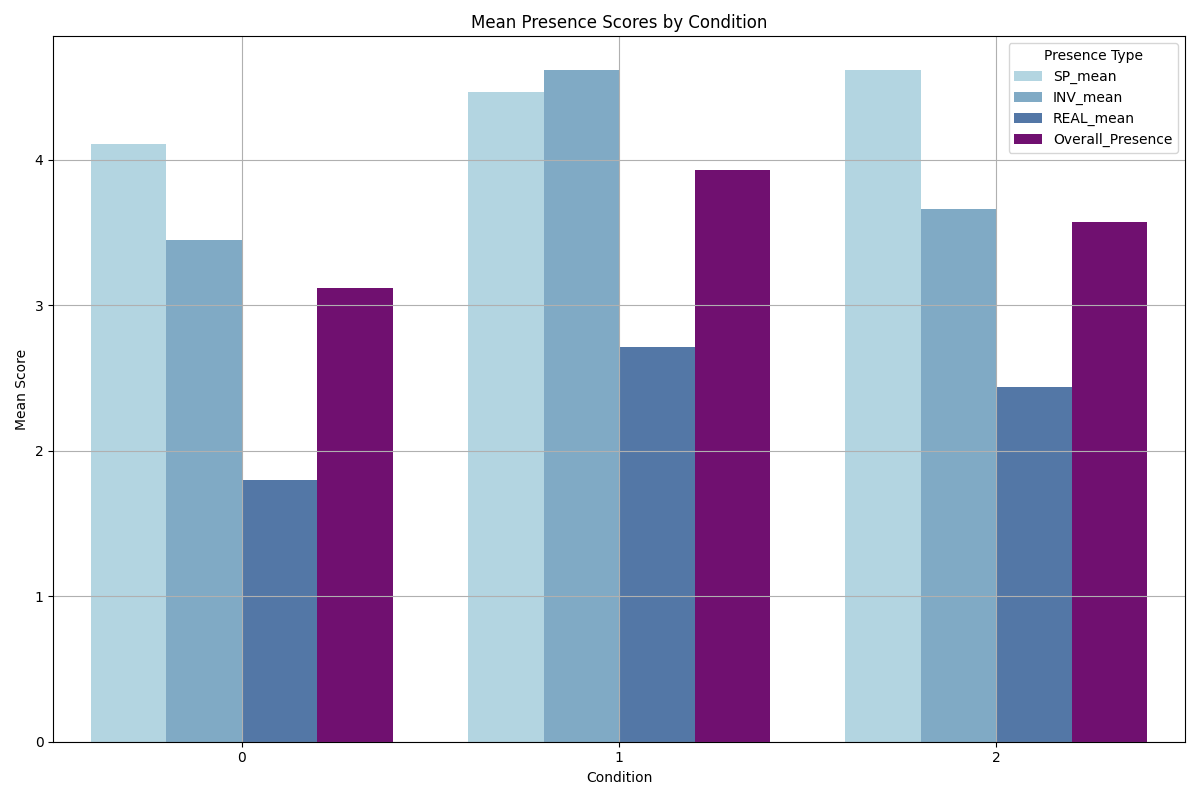
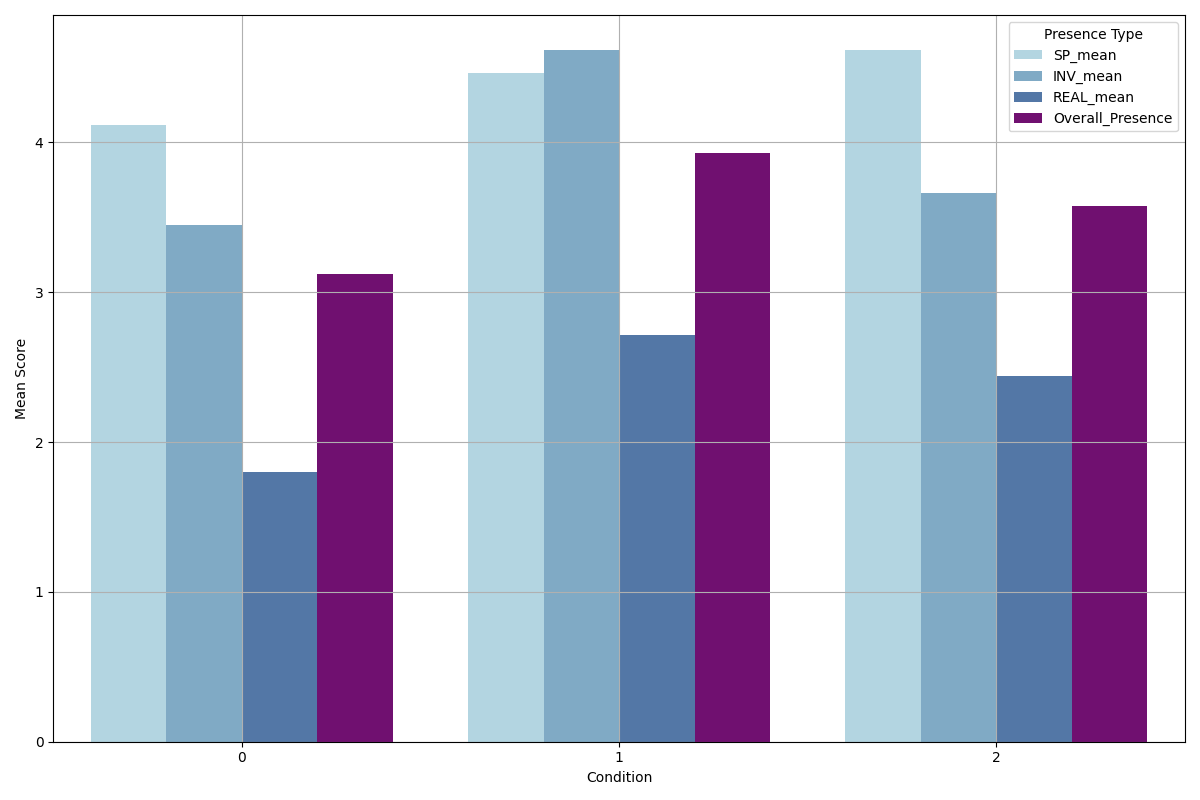
.

diff --git a/POMS/IPQ_BetweenGroup.py b/POMS/IPQ_BetweenGroup.py
@@ -1,0 +1,61 @@
+import pandas as pd
+import os
+from scipy.stats import f_oneway, kruskal
+from statsmodels.stats.multicomp import pairwise_tukeyhsd
+from scikit_posthocs import posthoc_dunn
+import seaborn as sns
+import matplotlib.pyplot as plt
+import numpy as np
+
+# Load data
+folder_path = 'POMS'
+input_file = 'IPQ_scores.csv'
+file_path = os.path.join(folder_path, input_file)
+data = pd.read_csv(file_path)
+
+# Prepare data for ANOVA and Kruskal-Wallis Test
+grouped_data = data.groupby('Condition')
+
+# Perform ANOVA and Kruskal-Wallis Test for each IPQ component
+anova_results = {}
+kruskal_results = {}
+post_hoc_anova = {}
+post_hoc_kruskal = {}
+
+data['Overall_Presence'] = data[['SP_mean', 'INV_mean', 'REAL_mean']].mean(axis=1)
+
+for column in ['SP_mean', 'INV_mean', 'REAL_mean', 'Overall_Presence']:
+    groups = [group[column].dropna() for name, group in grouped_data]
+    anova_result = f_oneway(*groups)
+    kruskal_result = kruskal(*groups)
+    anova_results[column] = anova_result
+    kruskal_results[column] = kruskal_result
+    
+    # Calculate effect size for ANOVA (Eta squared)
+    if anova_result.pvalue < 0.05:
+        eta_squared = anova_result.statistic * sum(groups) / (anova_result.statistic * sum(groups) + (len(data) - len(groups)))
+        tukey = pairwise_tukeyhsd(endog=data[column], groups=data['Condition'], alpha=0.05)
+        post_hoc_anova[column] = tukey.summary()
+        print(f"Effect Size (η²) for {column}: {eta_squared:.4f}")
+    
+    # Calculate effect size for Kruskal-Wallis (Epsilon squared)
+    if kruskal_result.pvalue < 0.05:
+        epsilon_squared = kruskal_result.statistic / (len(data) - 1)
+        dunn = posthoc_dunn(data, val_col=column, group_col='Condition', p_adjust='bonferroni')
+        post_hoc_kruskal[column] = dunn
+        print(f"Effect Size (ε²) for {column}: {epsilon_squared:.4f}")
+
+# Display results
+print("ANOVA Results:")
+for key, result in anova_results.items():
+    print(f"{key}: F-statistic = {result.statistic:.2f}, p-value = {result.pvalue:.4f}")
+    if result.pvalue < 0.05:
+        print("Tukey HSD Results:")
+        print(post_hoc_anova[key])
+
+print("\nKruskal-Wallis Test Results:")
+for key, result in kruskal_results.items():
+    print(f"{key}: H-statistic = {result.statistic:.2f}, p-value = {result.pvalue:.4f}")
+    if result.pvalue < 0.05:
+        print("Dunn's Test Results:")
+        print(post_hoc_kruskal[key])

diff --git a/POMS/IPQ_plot.py b/POMS/IPQ_plot.py
@@ -18,7 +18,7 @@ melted_data = condition_means.melt(id_vars='Condition', var_name='Presence_Type'
 plt.figure(figsize=(12, 8))
 palette_colors = ["#abd9e9", "#74add1", "#4575b4", "#800080"]  
 sns.barplot(x='Condition', y='Mean_Score', hue='Presence_Type', data=melted_data, palette=palette_colors)
-plt.title('Mean Presence Scores by Condition')
+#plt.title('Mean Presence Scores by Condition')
 plt.xlabel('Condition')
 plt.ylabel('Mean Score')
 plt.legend(title='Presence Type')
